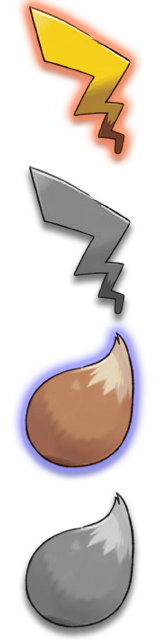
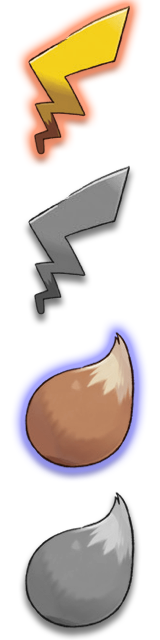
Update downupspllit for sword/shield

Changed region(s): [[0.125, 0.0, 0.875, 0.5312]]

diff --git a/images/upvote downvote/updown_split.py b/images/upvote downvote/updown_split.py
@@ -1,6 +1,6 @@
 from PIL import Image
 
-img = Image.open('downupletsgo.png')
+img = Image.open('downup.png')
 
 for i, f in enumerate(['up_a', 'up', 'down_a', 'down']):
     y = img.size[0] * i
